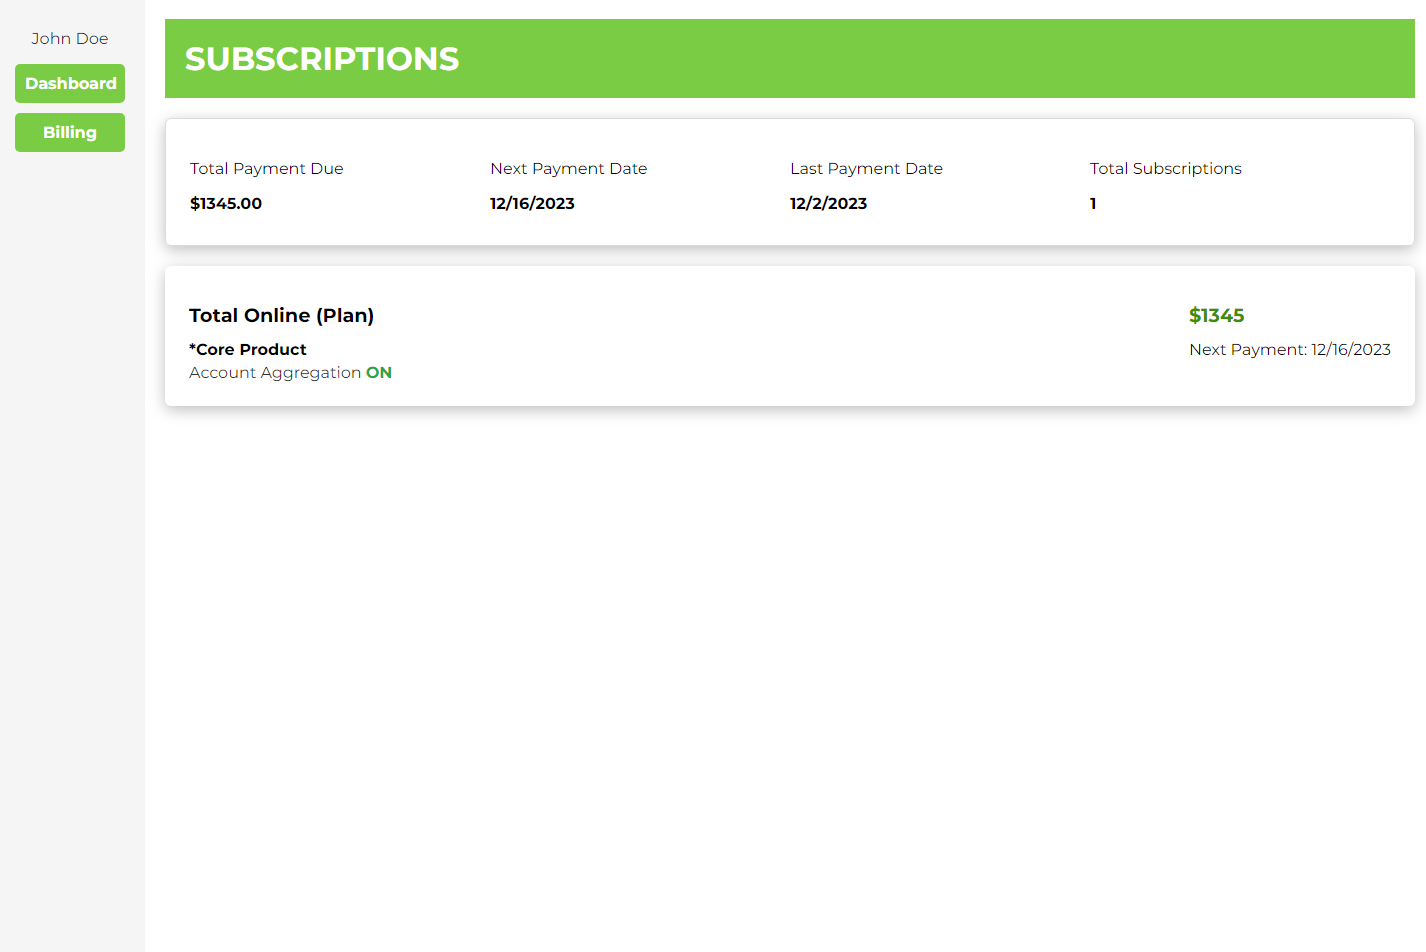
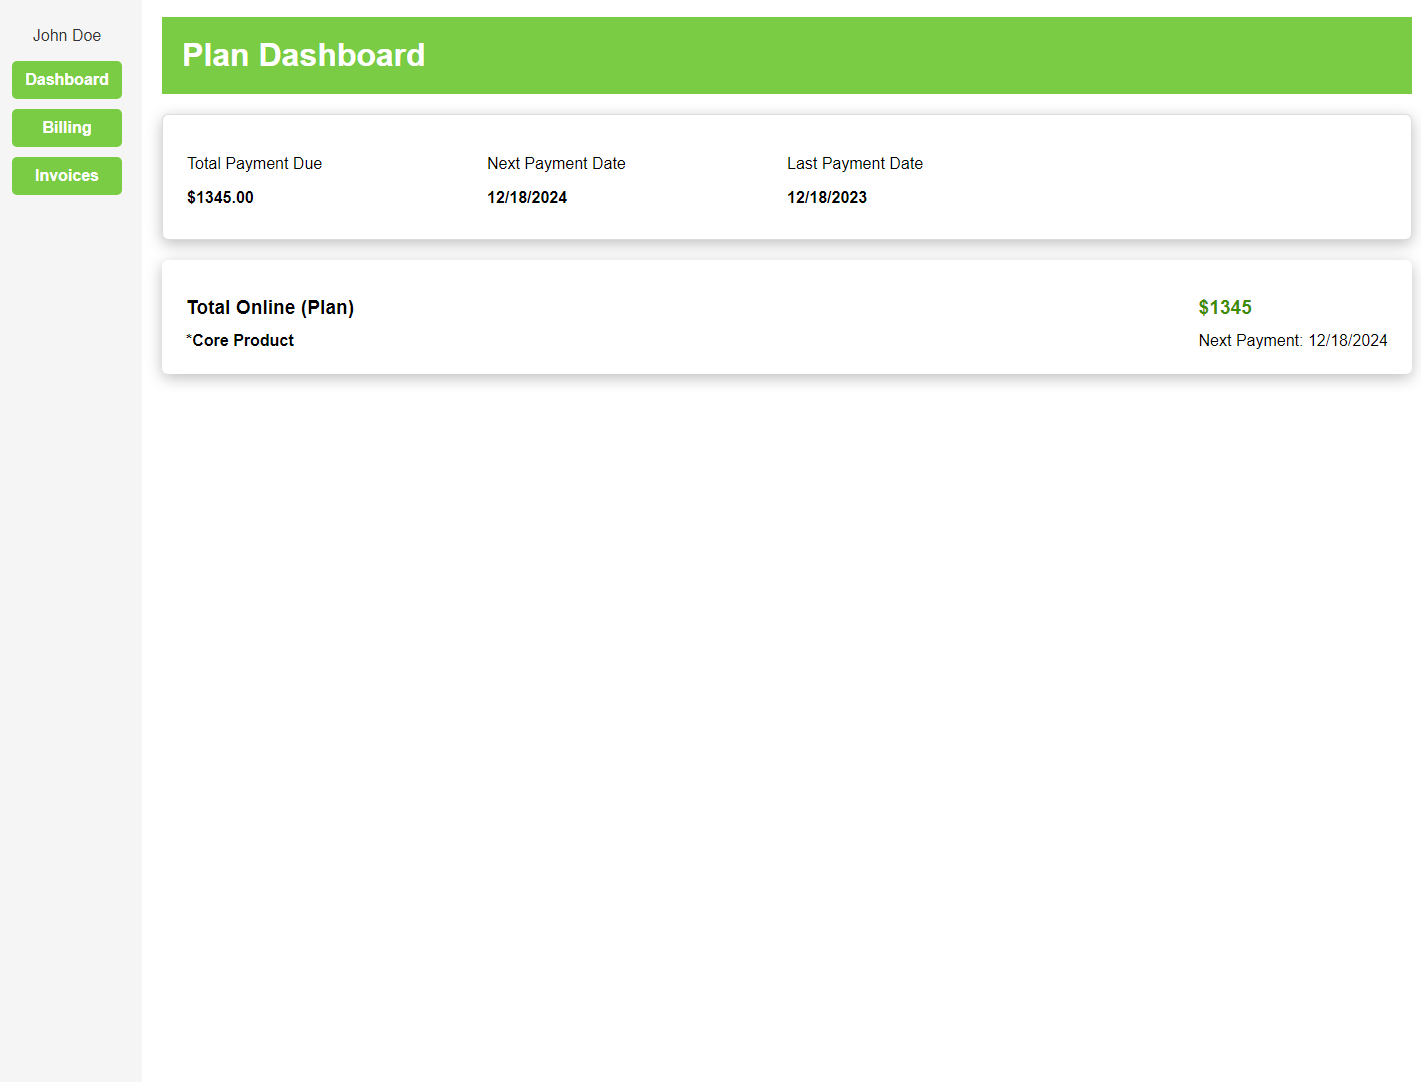
update user.md for 3rd iteration

diff --git a/Documentation/User.md b/Documentation/User.md
@@ -62,7 +62,7 @@ Once you have pressed submit, the information will be sent to Maxio to create su
 - You will begin in the main dashboard for the Subscription Manager
 - It should look something like this:
   ![Dash Step 1-1](./images/step1-main-dashboard.png)
-- Depending on what subscriptions the customer has, different subscriptions, or multiple, may show.
+- Depending on what subscriptions the customer is signed in under, different information may show or the layout/colors may differ slightly
 - Notice the different panels in the side bar:
 - ![Dash Step 1-2](./images/step1-sidebar.png)
 
@@ -73,3 +73,14 @@ Once you have pressed submit, the information will be sent to Maxio to create su
 - The page looks like this:
   ![Dash Step 2-2](./images/step2-billing-page.png)
 - Nothing currently can be done here, besides typing in information. But it can't be submitted.
+
+## Step 3:
+
+- Clicking on Invoices will take you to the billing information page of the Subscription Manager:
+- ![Dash Step 3-1](./images/step3-invoice-tab.png)
+- The page looks like this:
+  ![Dash Step 3-2](./images/step3-invoice-page.png)
+- This shows the invoices for the logged in customer. It is not just for the product subscription that is logged in under. It is all of their invoices for everything they have had an invoice for.
+- There are buttons at the bottom of the page. Each page contains 10 invoices. If there are more than 10, say 11 for example, then there would be 2 pages. In this screenshot there is only one page, but they look like this
+  ![Dash Step 3-2](./images/step3-invoice-buttons.png)
+- The buttons are pretty self explanatory, they simply take you to the corresponding page of invoices. Prev and Next take you to the prior or following page of invoices respectively.
